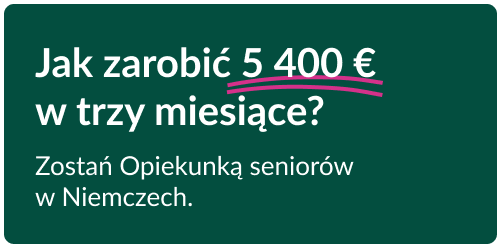
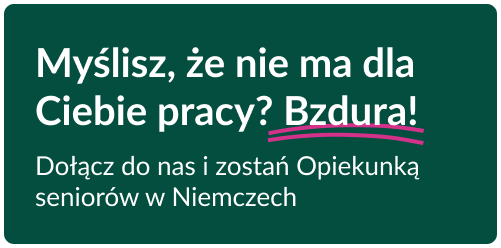
added mobile navbar, changed texts to target, changed buttons hover effects, started working on responsiveness

Changed region(s): [[0.0599, 0.1694, 0.8683, 0.5927], [0.0599, 0.621, 0.8383, 0.8468]]

diff --git a/index.html b/index.html
@@ -11,14 +11,14 @@
   </head>
   <body>
     <header>
-        <div class="container" id="top">
+        <div class="container display-only-pc-1" id="top">
             <div class="row clearfix align-items-center">
                 <div class="col-md-2">
                     <div class="logo">
                         <img src="images/mainlogo.png" alt="CAREMA" class="img-fluid logo-main my-4">
                     </div>
                 </div>
-                <div class="col-md-10 d-flex justify-content-end gap-5">
+                <div class="col-md-10 d-flex justify-content-end gap-3">
                     <ul class="nav justify-content-around align-content-center">
                         <li class="nav-item">
                           <a class="nav-link hover-underline" href="#onas">O nas</a>
@@ -40,6 +40,52 @@
                 </div>
             </div>
         </div>
+
+        <!-- Navbar Mobile -->
+
+        <nav class="navbar bg-body-tertiary display-only-mobile-1">
+          <div class="container">
+            <div class="logo">
+              <img src="images/mainlogo.png" alt="CAREMA" class="img-fluid logo-main my-2">
+            </div>
+            <button class="navbar-toggler" type="button" data-bs-toggle="offcanvas" data-bs-target="#offcanvasNavbar" aria-controls="offcanvasNavbar" aria-label="Toggle navigation">
+              <span class="navbar-toggler-icon"></span>
+            </button>
+            <div class="offcanvas offcanvas-end" tabindex="-1" id="offcanvasNavbar" aria-labelledby="offcanvasNavbarLabel">
+              <div class="offcanvas-header">
+                <h5 class="offcanvas-title" id="offcanvasNavbarLabel">
+                  <div class="logo">
+                    <img src="images/mainlogo.png" alt="CAREMA" class="img-fluid logo-main my-2">
+                  </div>
+                </h5>
+                <button type="button" class="btn-close" data-bs-dismiss="offcanvas" aria-label="Close"></button>
+              </div>
+              <div class="offcanvas-body">
+                <ul class="navbar-nav justify-content-end flex-grow-1 pe-3 mb-3 gap-3">
+                  <li class="nav-item">
+                    <a class="nav-link hover-underline" href="#onas">O nas</a>
+                  </li>
+                  <li class="nav-item">
+                    <a class="nav-link hover-underline" href="#gwarantujemy">Co gwarantujemy?</a>
+                  </li>
+                  <li class="nav-item">
+                    <a class="nav-link hover-underline" href="#oferty">Oferty pracy</a>
+                  </li>
+                  <li class="nav-item">
+                    <a class="nav-link hover-underline" href="#rekrutacja">Proces rekrutacji</a>
+                  </li>
+                  <li class="nav-item">
+                    <a class="nav-link hover-underline" href="#kontakt">Kontakt</a>
+                  </li>
+                </ul>
+                <div class="d-flex ">
+                  <a href="https://carema.eliot.solutions/#/login" class="btn btn-contact w-100" role="button" target="_blank">Kącik opiekunki</a>
+                </div>
+              </div>
+            </div>
+          </div>
+        </nav>
+
     </header>
     <main>
 
@@ -52,7 +98,7 @@
               <div class="col-4 forms" id="form1">
                 <div class="forms-title text-center">Wypełnij formularz</div>
                 <div class="forms-subtitle text-center">Znajdziemy dla Ciebie pracę!</div>
-                <form>
+                <form class="form-1">
                   <div class="mb-3">
                     <label for="name" class="form-label">Imię*</label>
                     <input type="text" class="form-control" id="name" name="name" placeholder="Anna" required>
@@ -116,10 +162,10 @@
               <img src="images/team_1.png" class="img-fluid who-img">
             </div>
             <div class="who-name">
-              Piotr Nowakowski
+              Piotr Wunsch
             </div>
             <div class="who-position">
-              Prezes zarządu
+              Patron Patronów
             </div>
           </div>
           <div class="col">
@@ -127,10 +173,10 @@
               <img src="images/team_2.png" class="img-fluid who-img">
             </div>
             <div class="who-name">
-              Piotr Piotrowski
+              Klaudia
             </div>
             <div class="who-position">
-              Koordynator ds. opieki
+              Patronka rekrutacji
             </div>
           </div>
           <div class="col">
@@ -138,10 +184,10 @@
               <img src="images/team_3.png" class="img-fluid who-img">
             </div>
             <div class="who-name">
-              Rafał Kowalski
+              Daria
             </div>
             <div class="who-position">
-              Koordynator ds. opieki
+              Patronka zleceń
             </div>
           </div>
           <div class="col">
@@ -149,10 +195,10 @@
               <img src="images/team_4.png" class="img-fluid who-img">
             </div>
             <div class="who-name">
-              Marta Dolar
+              Bartek
             </div>
             <div class="who-position">
-              Specjalista ds. rekrutacji
+              Patron wyjazdu
             </div>
           </div>
           <div class="col">
@@ -160,10 +206,10 @@
               <img src="images/team_5.png" class="img-fluid who-img">
             </div>
             <div class="who-name">
-              Robert Wąż
+              Elena
             </div>
             <div class="who-position">
-              Specjalista ds. rekrutacji
+              Patronka rekrutacji
             </div>
           </div>
         </div>
@@ -191,9 +237,9 @@
           <div class="no-offer-text mb-3">
             To tylko kilka z naszych zleceń.
           </div>
-          <div class="no-offer-subtext mb-4">Jeśli szukasz czegoś innego, nie ma sprawy!<br />Znajdziemy ofertę w sam raz dla Ciebie. Zgłoś się do nas,<br />a nasi Patroni Rekrutacji od razu zabiorą się za przeczesywanie bazy</div>
+          <div class="no-offer-subtext mb-4">Jeśli szukasz czegoś innego, nie ma sprawy!<br />Znajdziemy ofertę w sam raz dla Ciebie. Zgłoś się do nas,<br />a nasi Patroni Rekrutacji od razu zabiorą się za przeczesywanie bazy.</div>
           <div class="btn btn-no-offer">
-            Znajdź dla mnie ofertę
+            Znajdź ofertę dla mnie
           </div>
         </div>
       </div>
@@ -211,7 +257,7 @@
               Zgłoś się do nas
             </div>
             <div class="col-8 recruitment-process-text">
-              Myślisz o wyjeździe do pracy, szukasz odpowiedniego zlecenia? Daj nam znać! Jak?<br />Jak tylko Ci wygodnie. 😉 Możesz <a href="tel:+48737932272">zadzwonić</a> i od razu podpytać Patronów o wszystko,<br />co Cię nurtuje, napisać do nas na <a href="https://wa.me/48357357863">WhatsAppie</a> lub <a href="#form1">wypełnić formularz zgłoszeniowy.</a>
+              Myślisz o wyjeździe do pracy, szukasz odpowiedniego zlecenia? Daj nam znać! <b>Jak?<br />Jak tylko Ci wygodnie.</b> 😉 Możesz <a href="tel:+48737932272">zadzwonić</a> i od razu podpytać Patronów o wszystko,<br />co Cię nurtuje, napisać do nas na <a href="https://wa.me/48357357863">WhatsAppie</a> lub <a href="#form1">wypełnić formularz zgłoszeniowy.</a>
             </div>
           </div>
           <div class="row horizontal-line py-3">
@@ -227,7 +273,7 @@
               Porozmawiajmy
             </div>
             <div class="col-8 recruitment-process-text">
-              Patroni dzwonią do Ciebie i opowiadają o szczegółach. Chcemy, żebyś była jak najlepiej poinformowana o warunkach pracy i nie miała żadnych wątpliwości (oczywiście, jeśli się pojawią zawsze możesz do nas dzwonić 😉). Twój osobisty Patron pozna Twoje preferencje i umiejętności językowe. Następnie wyszuka zlecenie dostosowane specjalnie do Ciebie.
+              Patroni dzwonią do Ciebie i opowiadają o szczegółach. Chcemy, żebyś była jak najlepiej poinformowana o warunkach pracy i nie miała żadnych wątpliwości (oczywiście, jeśli się pojawią zawsze możesz do nas dzwonić 😉). <b>Twój osobisty Patron pozna Twoje preferencje i umiejętności językowe.</b> Następnie wyszuka zlecenie dostosowane specjalnie do Ciebie.
             </div>
           </div>
           <div class="row horizontal-line py-3">
@@ -240,10 +286,10 @@
               <div class="green-circle rounded-circle">3</div>
             </div>
             <div class="col-3 recruitment-process-title">
-              Mamy ofertę dla Ciebie
+              Mamy ofertę<br />dla Ciebie
             </div>
             <div class="col-8 recruitment-process-text">
-              Patron znajduje odpowiednie zlecenie i przedstawia Ci jego szczegóły. Opowiada, jaki jest podopieczny, jaki jest jego stan zdrowia, usposobienie, rodzina. Możesz zapytać o wszystko. Zależy nam, abyś przed wyjazdem miała pełną wiedzę na temat pracy. Wszystkie nasze zlecenia są zweryfikowane przez niemieckich partnerów, ale i Opiekunki. 😊
+              <b>Patron znajduje odpowiednie zlecenie i przedstawia Ci jego szczegóły.</b> Opowiada, jaki jest podopieczny, jaki jest jego stan zdrowia, usposobienie, rodzina. Możesz zapytać o wszystko. Zależy nam, abyś przed wyjazdem miała pełną wiedzę na temat pracy. <b>Wszystkie nasze zlecenia są zweryfikowane przez niemieckich partnerów, ale i Opiekunki.</b> 😊
             </div>
           </div>
           <div class="row horizontal-line py-3">
@@ -259,7 +305,7 @@
               Twoja akceptacja
             </div>
             <div class="col-8 recruitment-process-text">
-              Wybrałaś zlecenie, które Ci odpowiada? Świetnie. Teraz czas na podpisanie umowy. Patroni wyjaśnią Ci szczegółowo każdą stronę, wszystkie formalności i sposób rozliczeń. A co jest w tym najwygodniejsze? Umowę możesz podpisać online, w swoim domu!
+              <b>Wybrałaś zlecenie, które Ci odpowiada? Świetnie.</b> Teraz czas na podpisanie umowy. Patroni wyjaśnią Ci szczegółowo każdą stronę, wszystkie formalności i sposób rozliczeń. A co jest w tym najwygodniejsze? <b>Umowę możesz podpisać online, w swoim domu!</b>
             </div>
           </div>
           <div class="row horizontal-line py-3">
@@ -275,7 +321,7 @@
               No to jedziemy!
             </div>
             <div class="col-8 recruitment-process-text">
-              Dedykowany Tobie Patron wszystkim się zajmie – zorganizuje darmową podróż spod Twojego domu do podopiecznego, załatwi prywatne ubezpieczenie, udzieli wszystkich informacji.
+              <b>Dedykowany Tobie Patron wszystkim się zajmie</b> - zorganizuje darmową podróż spod Twojego domu do podopiecznego, załatwi prywatne ubezpieczenie, udzieli wszystkich informacji.
             </div>
           </div>
           <div class="row horizontal-line py-3">
@@ -291,7 +337,7 @@
               Wspieramy
             </div>
             <div class="col-8 recruitment-process-text">
-              Nie zostawimy Cię na zleceniu samej. Chcemy budować relację i dbać o Twój komfort. Dlatego Twój Patron będzie dzwonił do Ciebie w każdym tygodniu. To przestrzeń dla Ciebie – możesz poopowiadać, co słychać na zleceniu, jak się czujesz, o wszystkim, o czym tylko chcesz. Patron zawsze wysłucha i w razie potrzeby pomoże. Możesz do niego dzwonić również w inne dni, kiedy potrzebujesz pomocy lub tylko (albo aż) samej rozmowy. Przez całą dobę, 7 dni w tygodniu, w każde święto działa również nasza linia PN – linia Pomocy Nagłej. Jeśli zdarzy się coś, co wymaga naszej niezwłocznej ingerencji, dzwoń śmiało!
+              Nie zostawimy Cię na zleceniu samej. Chcemy budować relację i dbać o Twój komfort. Dlatego Twój Patron będzie dzwonił do Ciebie w każdym tygodniu. To przestrzeń dla Ciebie - możesz poopowiadać, co słychać na zleceniu, jak się czujesz, o wszystkim, o czym tylko chcesz. Patron zawsze wysłucha i w razie potrzeby pomoże. Możesz do niego dzwonić również w inne dni, kiedy potrzebujesz pomocy lub tylko (albo aż) samej rozmowy. <br /><br />Przez całą dobę, 7 dni w tygodniu, w każde święto działa również nasza <b>linia PN - linia Pomocy Nagłej.</b> Jeśli zdarzy się coś, co wymaga naszej niezwłocznej ingerencji, dzwoń śmiało!
             </div>
           </div>
         </div>
@@ -372,11 +418,11 @@
                       *Pola obowiązkowe
                     </div>
                     <div class="form-text">
-                      Informacje o przetwarzaniu Twoich danych osobowych znajdziesz tutaj.
+                      Twoje dane są bezpieczne. Informacje o przetwarzaniu Twoich danych osobowych znajdziesz tutaj.
                     </div>
                   </div>
                   <div class="d-flex justify-content-center">
-                    <button type="submit" class="btn btn-primary w-100">Wyślij wiadomość</button>
+                    <button type="submit" class="btn btn-primary btn-form w-100">Wyślij wiadomość</button>
                   </div>
                 </form>
               </div>

diff --git a/css/style.css b/css/style.css
@@ -82,10 +82,17 @@ a, a:link, a:visited, a:active {
 }
 
 .btn-contact:hover {
-    background-color: var(--main-color-2);
+    background-color: var(--main-color-1);
     color: #ffffff;
 }
 
+.offcanvas-header .btn-close {
+    color: var(--main-color-1);
+}
+
+.offcanvas-body .nav-link {
+    font-size: 26px;
+}
 
 /* Form and bg photo */
 
@@ -211,8 +218,8 @@ a, a:link, a:visited, a:active {
 }
 
 .btn-primary:hover {
-    background-color: var(--main-color-2);
-    border-color: var(--main-color-2);
+    background-color: var(--main-color-1);
+    border-color: var(--main-color-1);
 }
 
 
@@ -286,6 +293,11 @@ a, a:link, a:visited, a:active {
     max-width: fit-content;
  }
 
+ .btn-no-offer:hover {
+    background-color: #ffffff;
+    color: var(--extra-color-1);
+ }
+
  .green-bg {
     background-color: var(--main-color-2);
     border-radius: 10px;
@@ -322,6 +334,7 @@ a, a:link, a:visited, a:active {
 
  .recruitment-process-text {
     font-size: 18px;
+    color: #383838;
  }
 
  .recruitment-process-text a {
@@ -420,6 +433,14 @@ a, a:link, a:visited, a:active {
     color: #8aada5;
 }
 
+.btn-form {
+    border: 2px var(--main-color-2) solid;
+}
+
+.btn-form:hover {
+    border: 2px #ffffff solid;
+}
+
 /* Footer */
 
 .footer-green-box {
@@ -448,8 +469,8 @@ a, a:link, a:visited, a:active {
 }
 
 .btn-footer-1:hover {
-    border: 2px solid var(--extra-color-1);
-    background-color: var(--extra-color-1);
+    border: 2px solid #ffffff;
+    background-color: var(--main-color-1);
 }
 
 .btn-footer-2 {
@@ -458,8 +479,8 @@ a, a:link, a:visited, a:active {
 }
 
 .btn-footer-2:hover {
-    border: 2px solid var(--extra-color-1);
-    background-color: var(--extra-color-1);
+    border: 2px solid var(--main-color-2);
+    background-color: var(--main-color-2);
 }
 
 .btn-arrow-up {
@@ -469,7 +490,7 @@ a, a:link, a:visited, a:active {
 }
 
 .btn-arrow-up:hover {
-    background-color: var(--extra-color-1);
+    background-color: var(--main-color-2);
 }
 
 .footer-pink-box {
@@ -477,8 +498,30 @@ a, a:link, a:visited, a:active {
     color: #ffffff;
 }
 
- @media only screen and (max-width: 1399px) {
-    .forms {
-      display: none;
+
+
+@media only screen and (max-width: 1399px) {
+    .form-1 .mb-3 {
+      margin-bottom: 0.2rem!important;
     }
-  }
+
+    .form-background .col-4 {
+      width: 45%;
+    }
+}
+
+@media only screen and (min-width: 1200px) {
+    .display-only-mobile-1 {
+        display: none;
+    }
+}
+
+@media only screen and (max-width: 1199px) {
+    .display-only-pc-1 {
+        display: none;
+    }
+
+    .forms {
+        display: none;
+    }
+}
